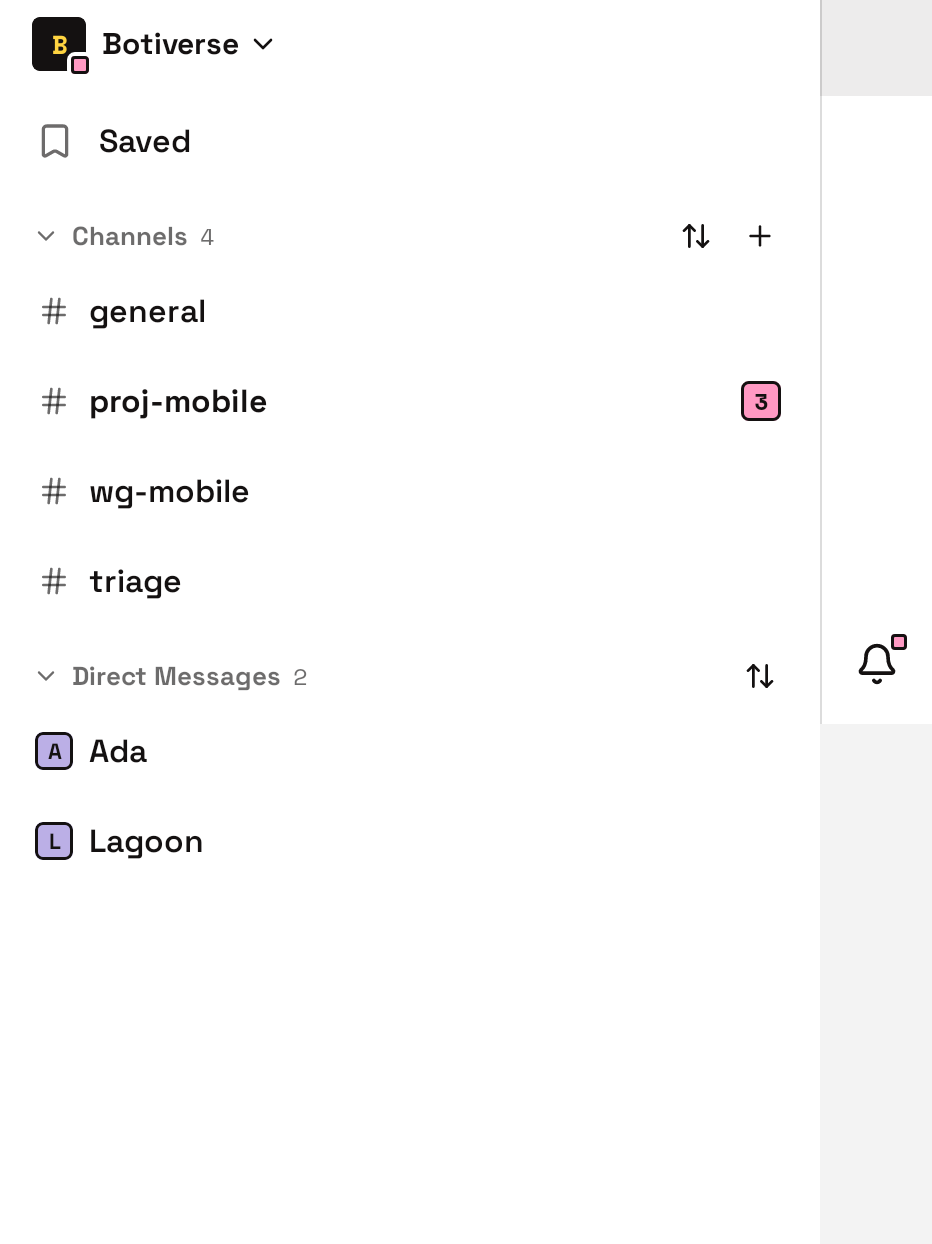
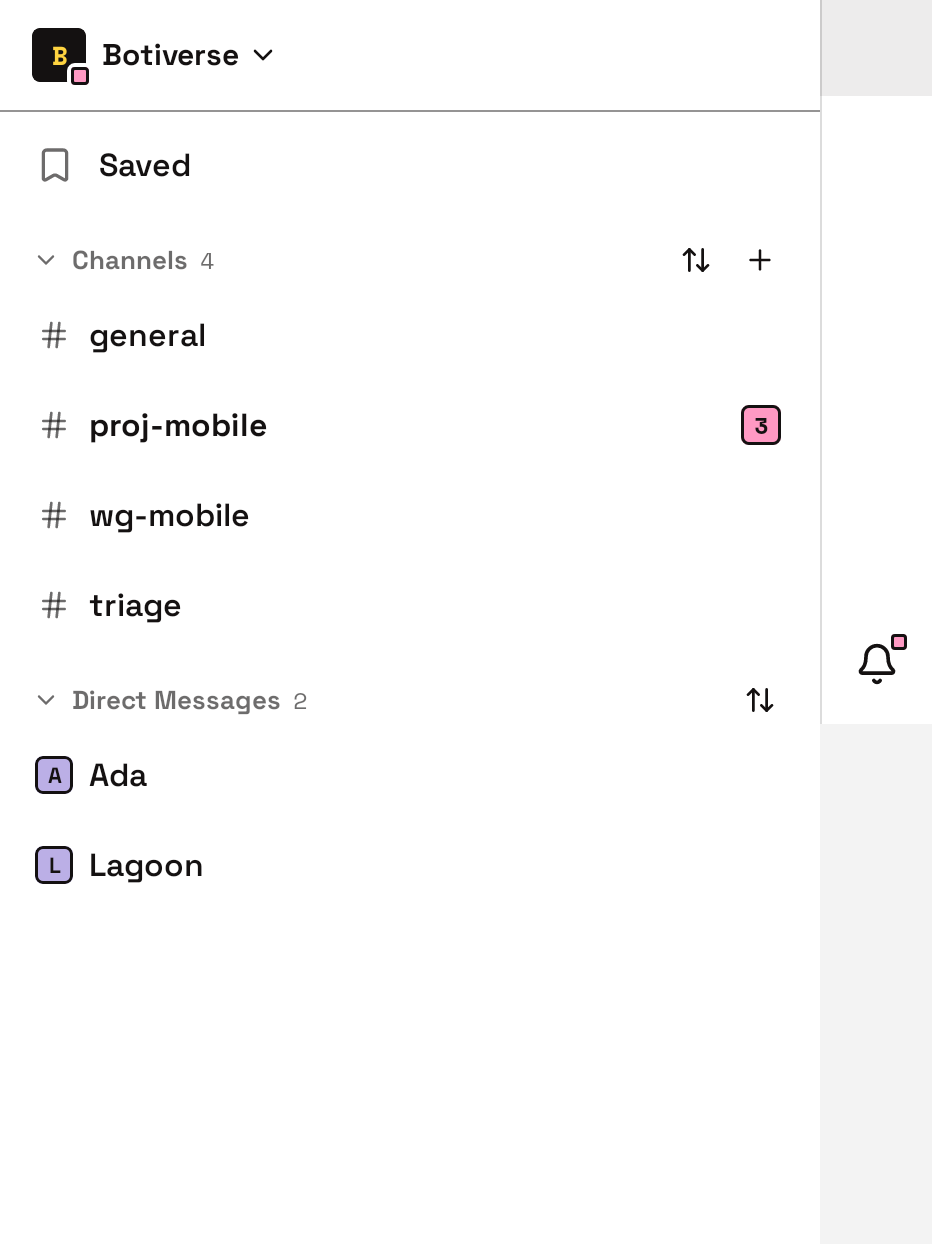
fix(duo): the top-level first header line is 56pt with its seam, like every top-level head
Kirby's review of #3890 (spacing.md Heights: one head height, 56; page-structure:
every top-level page draws the seam under its head so page tops line up).

diff --git a/compose/shared/src/commonMain/kotlin/build/raft/app/RaftHomeComponents.kt b/compose/shared/src/commonMain/kotlin/build/raft/app/RaftHomeComponents.kt
@@ -4131,9 +4131,9 @@ internal fun homeServerSwitcherJoinCommunityActions(
 internal fun homeServerSwitcherPanelTopOffset(topSafeArea: Dp, sideColumnTitleLine: Boolean = false): Dp =
     homeShellHeaderHeight(topSafeArea, sideColumnTitleLine) + HomeServerSwitcherTopGap
 
-/** The Home head: the 56dp navigation row, or beside the Duo side column the 44pt switcher line. */
+/** The Home head: the 56dp row, on the yellow frame, or beside the Duo side column on paper. */
 internal fun homeShellHeaderHeight(topSafeArea: Dp, sideColumnTitleLine: Boolean = false): Dp =
-    topSafeArea + if (sideColumnTitleLine) RaftSideColumnTitleLineHeight else RaftAppSize.PageHeaderHeight
+    topSafeArea + RaftAppSize.PageHeaderHeight
 
 /**
  * From the window's bottom to the bottom of the bell's popover beside the Duo side column: level
@@ -4867,8 +4867,9 @@ private fun HomeTitlebar(
     // The frame runs up under the status bar: the host's status bar icons follow it.
     RaftStatusBarBackdropClaim(background, enabled = topSafeArea > 0.dp)
     Box(modifier = Modifier.fillMaxWidth().height(homeShellHeaderHeight(topSafeArea, bellInColumn)).background(background)) {
-        // Beside the Duo side column the switcher line is the page's own first line: no seam.
-        if (!bellInColumn) Box(
+        // Beside the Duo side column the switcher line is the page's first line, on paper, with the
+        // same seam as every top-level head.
+        Box(
             modifier = Modifier
                 .fillMaxWidth()
                 .height(RaftAppStroke.Thin)
@@ -4879,7 +4880,7 @@ private fun HomeTitlebar(
             modifier =
                 Modifier
                     .padding(top = topSafeArea)
-                    .height(if (bellInColumn) RaftSideColumnTitleLineHeight else RaftAppSize.PageHeaderContentHeight)
+                    .height(RaftAppSize.PageHeaderContentHeight)
                     // The frame runs edge to edge; the identity and bell stay in the safe area.
                     .raftSafeAreaHorizontalPadding()
                     .padding(horizontal = RaftAppSpacing.Md),

diff --git a/compose/shared/src/commonMain/kotlin/build/raft/app/RaftSectionHeader.kt b/compose/shared/src/commonMain/kotlin/build/raft/app/RaftSectionHeader.kt
@@ -301,12 +301,6 @@ internal fun RaftPanelBackHeader(
 
 private val RaftPanelHeaderHeight = 56.dp
 
-/**
- * iPhone Duo: a top-level page's first header line beside the system's side column (its name, the
- * server switcher on Home, the search field on Search): a 44pt line on paper, in place of the 56dp
- * navigation row.
- */
-internal val RaftSideColumnTitleLineHeight = 44.dp
 
 // raft-ui `text-headline`: 17/22 700, no tracking.
 private val RaftPanelHeaderTitleStyle: TextStyle
@@ -325,12 +319,11 @@ internal fun RaftTopPageHeaderFrame(
 ) {
     // iPhone Duo (raft-design #859, "Foldable phones"): with the system's side column a top-level
     // page has no yellow navigation row. Its name (the search field on Search) is the page's first
-    // header line, on paper, with no seam: the column, with the tab bar in it, says it is a root.
+    // header line, on paper, 56pt with the seam under it like every top-level head, so tops line up
+    // across pages (Kirby, 2026-10-28: spacing.md Heights, page-structure.md).
     val sideColumnTitleLine = raftSideColumnActive() && backgroundColor == RaftColor.Frame
     @Suppress("NAME_SHADOWING")
     val backgroundColor = if (sideColumnTitleLine) RaftColor.Canvas else backgroundColor
-    @Suppress("NAME_SHADOWING")
-    val headerHeight = if (sideColumnTitleLine) RaftSideColumnTitleLineHeight else headerHeight
     val metrics = raftTopPageHeaderFrameMetrics(topSafeArea = topSafeArea, headerHeight = headerHeight)
     // A head that pads for the status bar paints under it: the host's status bar icons follow.
     RaftStatusBarBackdropClaim(backgroundColor, enabled = topSafeArea > 0.dp)
@@ -357,7 +350,7 @@ internal fun RaftTopPageHeaderFrame(
         )
         // raft-ui panel head: a 1dp seam splits the head from the body (no ink rule). Flattened
         // onto the canvas first so it rounds like the web (a draw-time 8-bit blend lands a level dark).
-        if (!sideColumnTitleLine) Box(
+        Box(
             modifier =
                 Modifier
                     .fillMaxWidth()
